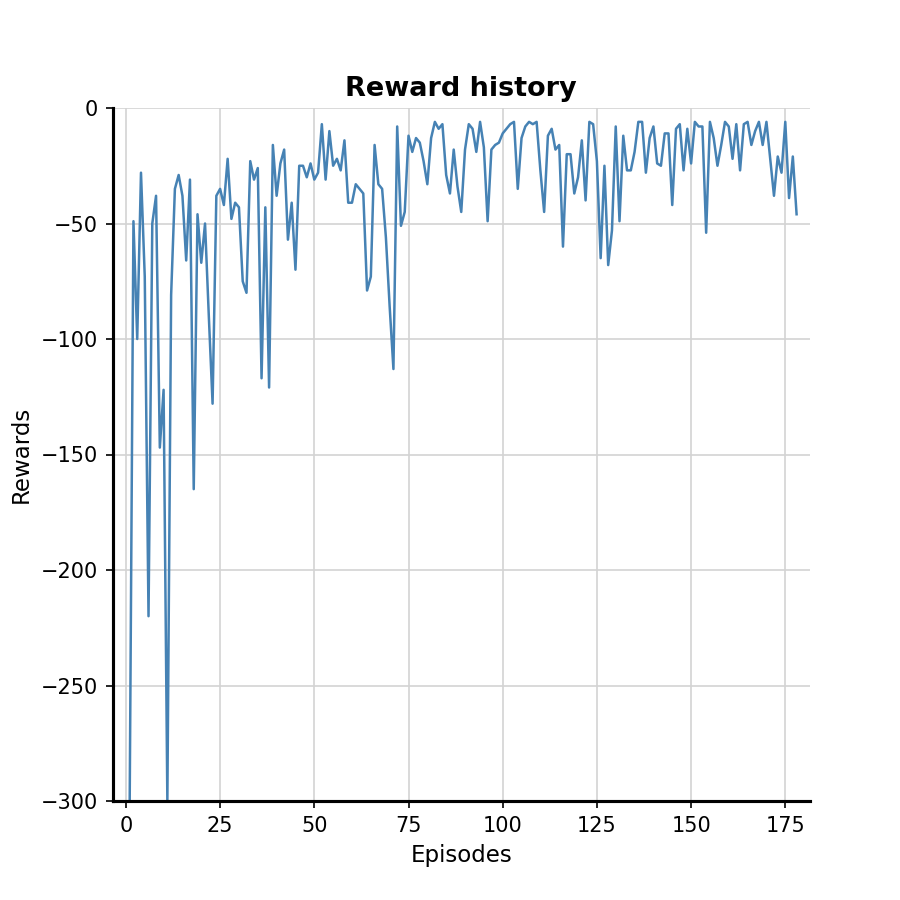
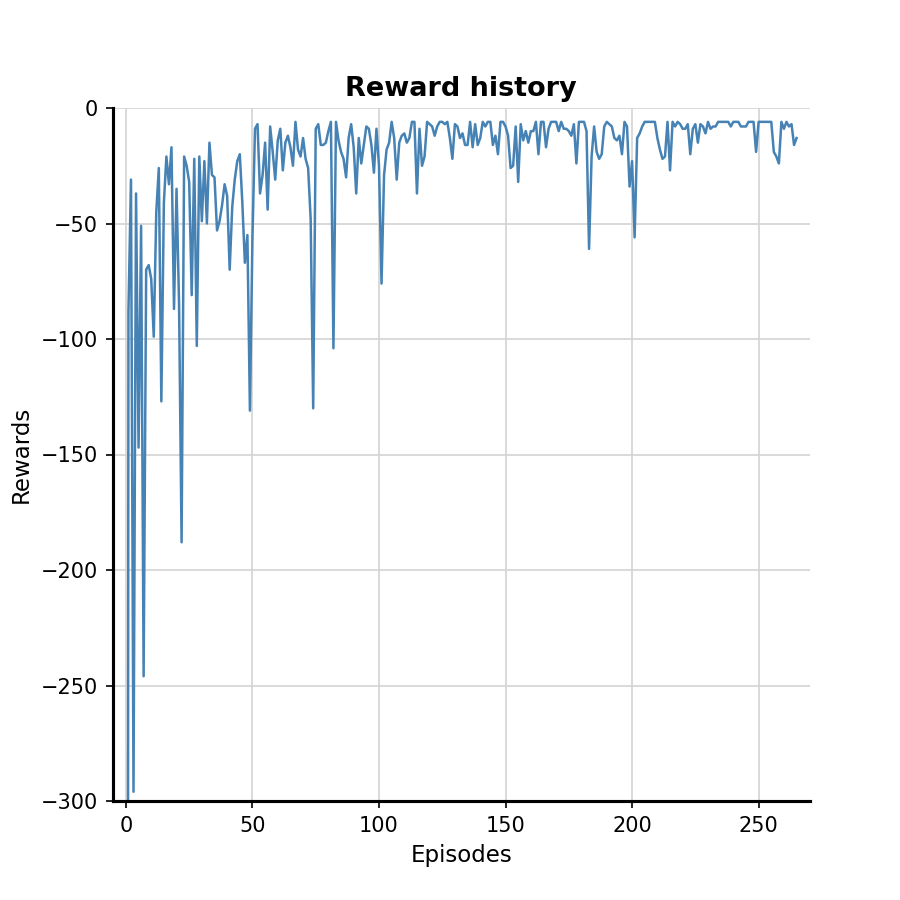
exercise 6.9 updated

diff --git a/chapter_06_temporal_difference_learning/exercise_6_9_windy_king_move.py b/chapter_06_temporal_difference_learning/exercise_6_9_windy_king_move.py
@@ -108,13 +108,13 @@ def plt_setup(xlabel: str, ylabel: str, title: str = None):
 
 
 if __name__ == "__main__":
-    epsilon = 0.2
+    epsilon = 0.1
     alpha = 0.5
     total_steps = 20_000
     run_sarsa_windy(
         epsilon=epsilon,
         alpha=alpha,
         total_steps=total_steps,
-        plot=False,
-        render_result=True,
+        plot=True,
+        render_result=False,
     )
